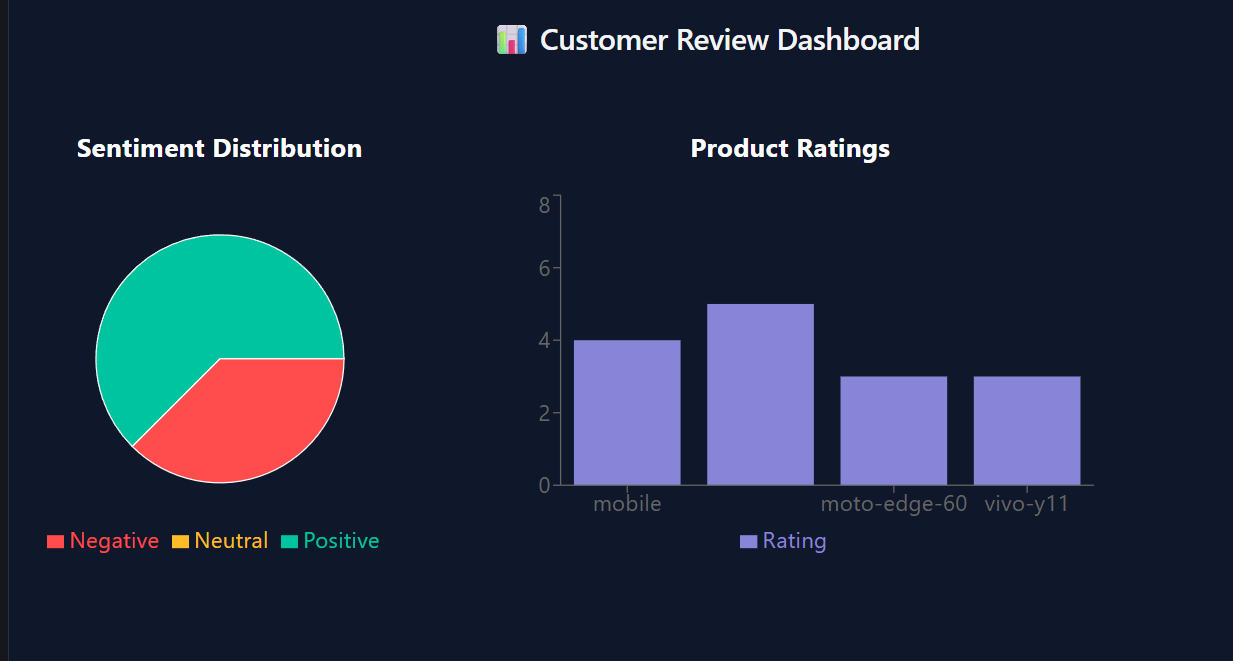
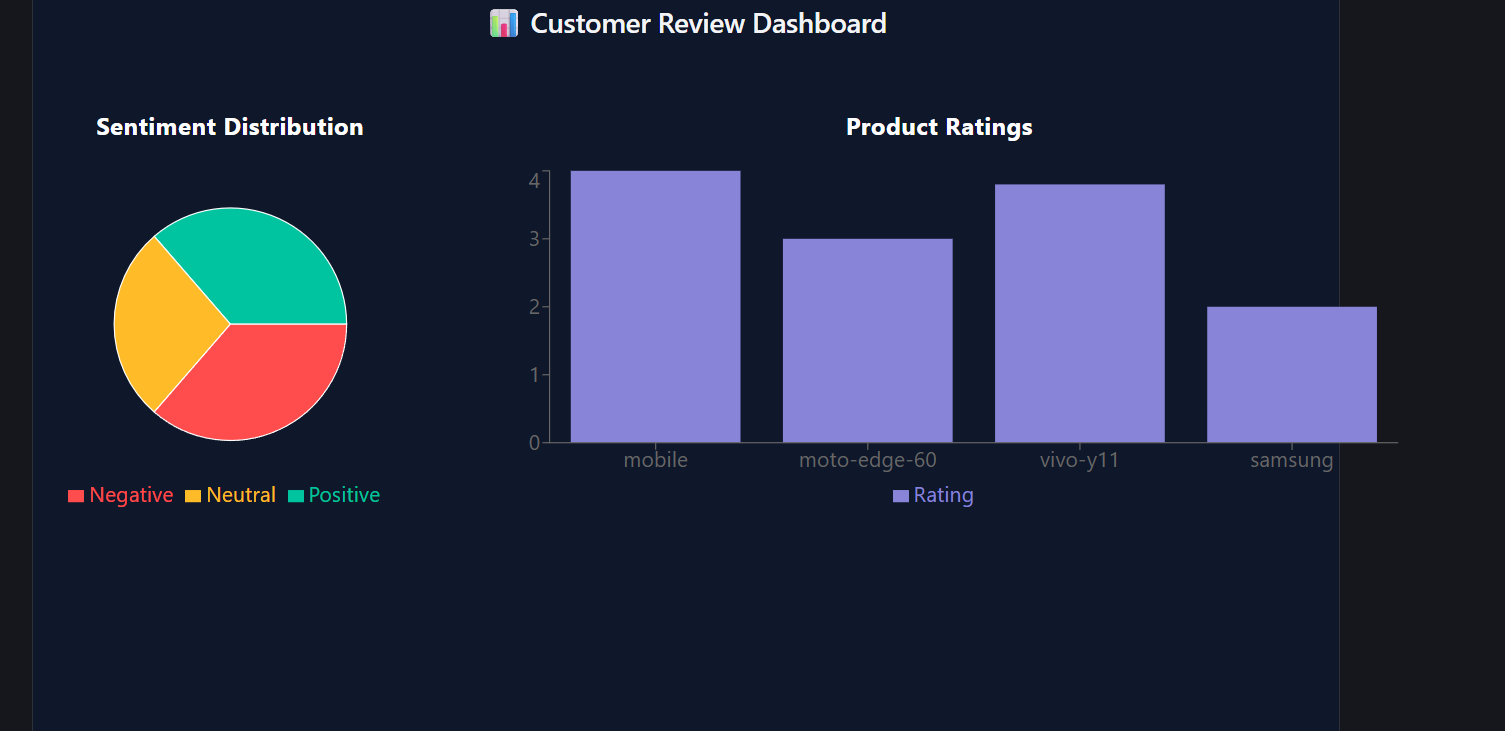
new screenshots  added

diff --git a/src/App.jsx b/src/App.jsx
@@ -86,7 +86,7 @@ function App() {
         {/* 🟣 Bar Chart */}
         <div>
           <h3>Product Ratings</h3>
-          <BarChart width={500} height={300} data={productData}>
+          <BarChart width={800} height={300} data={productData}>
             <XAxis dataKey="Product" />
             <YAxis />
             <Tooltip />
